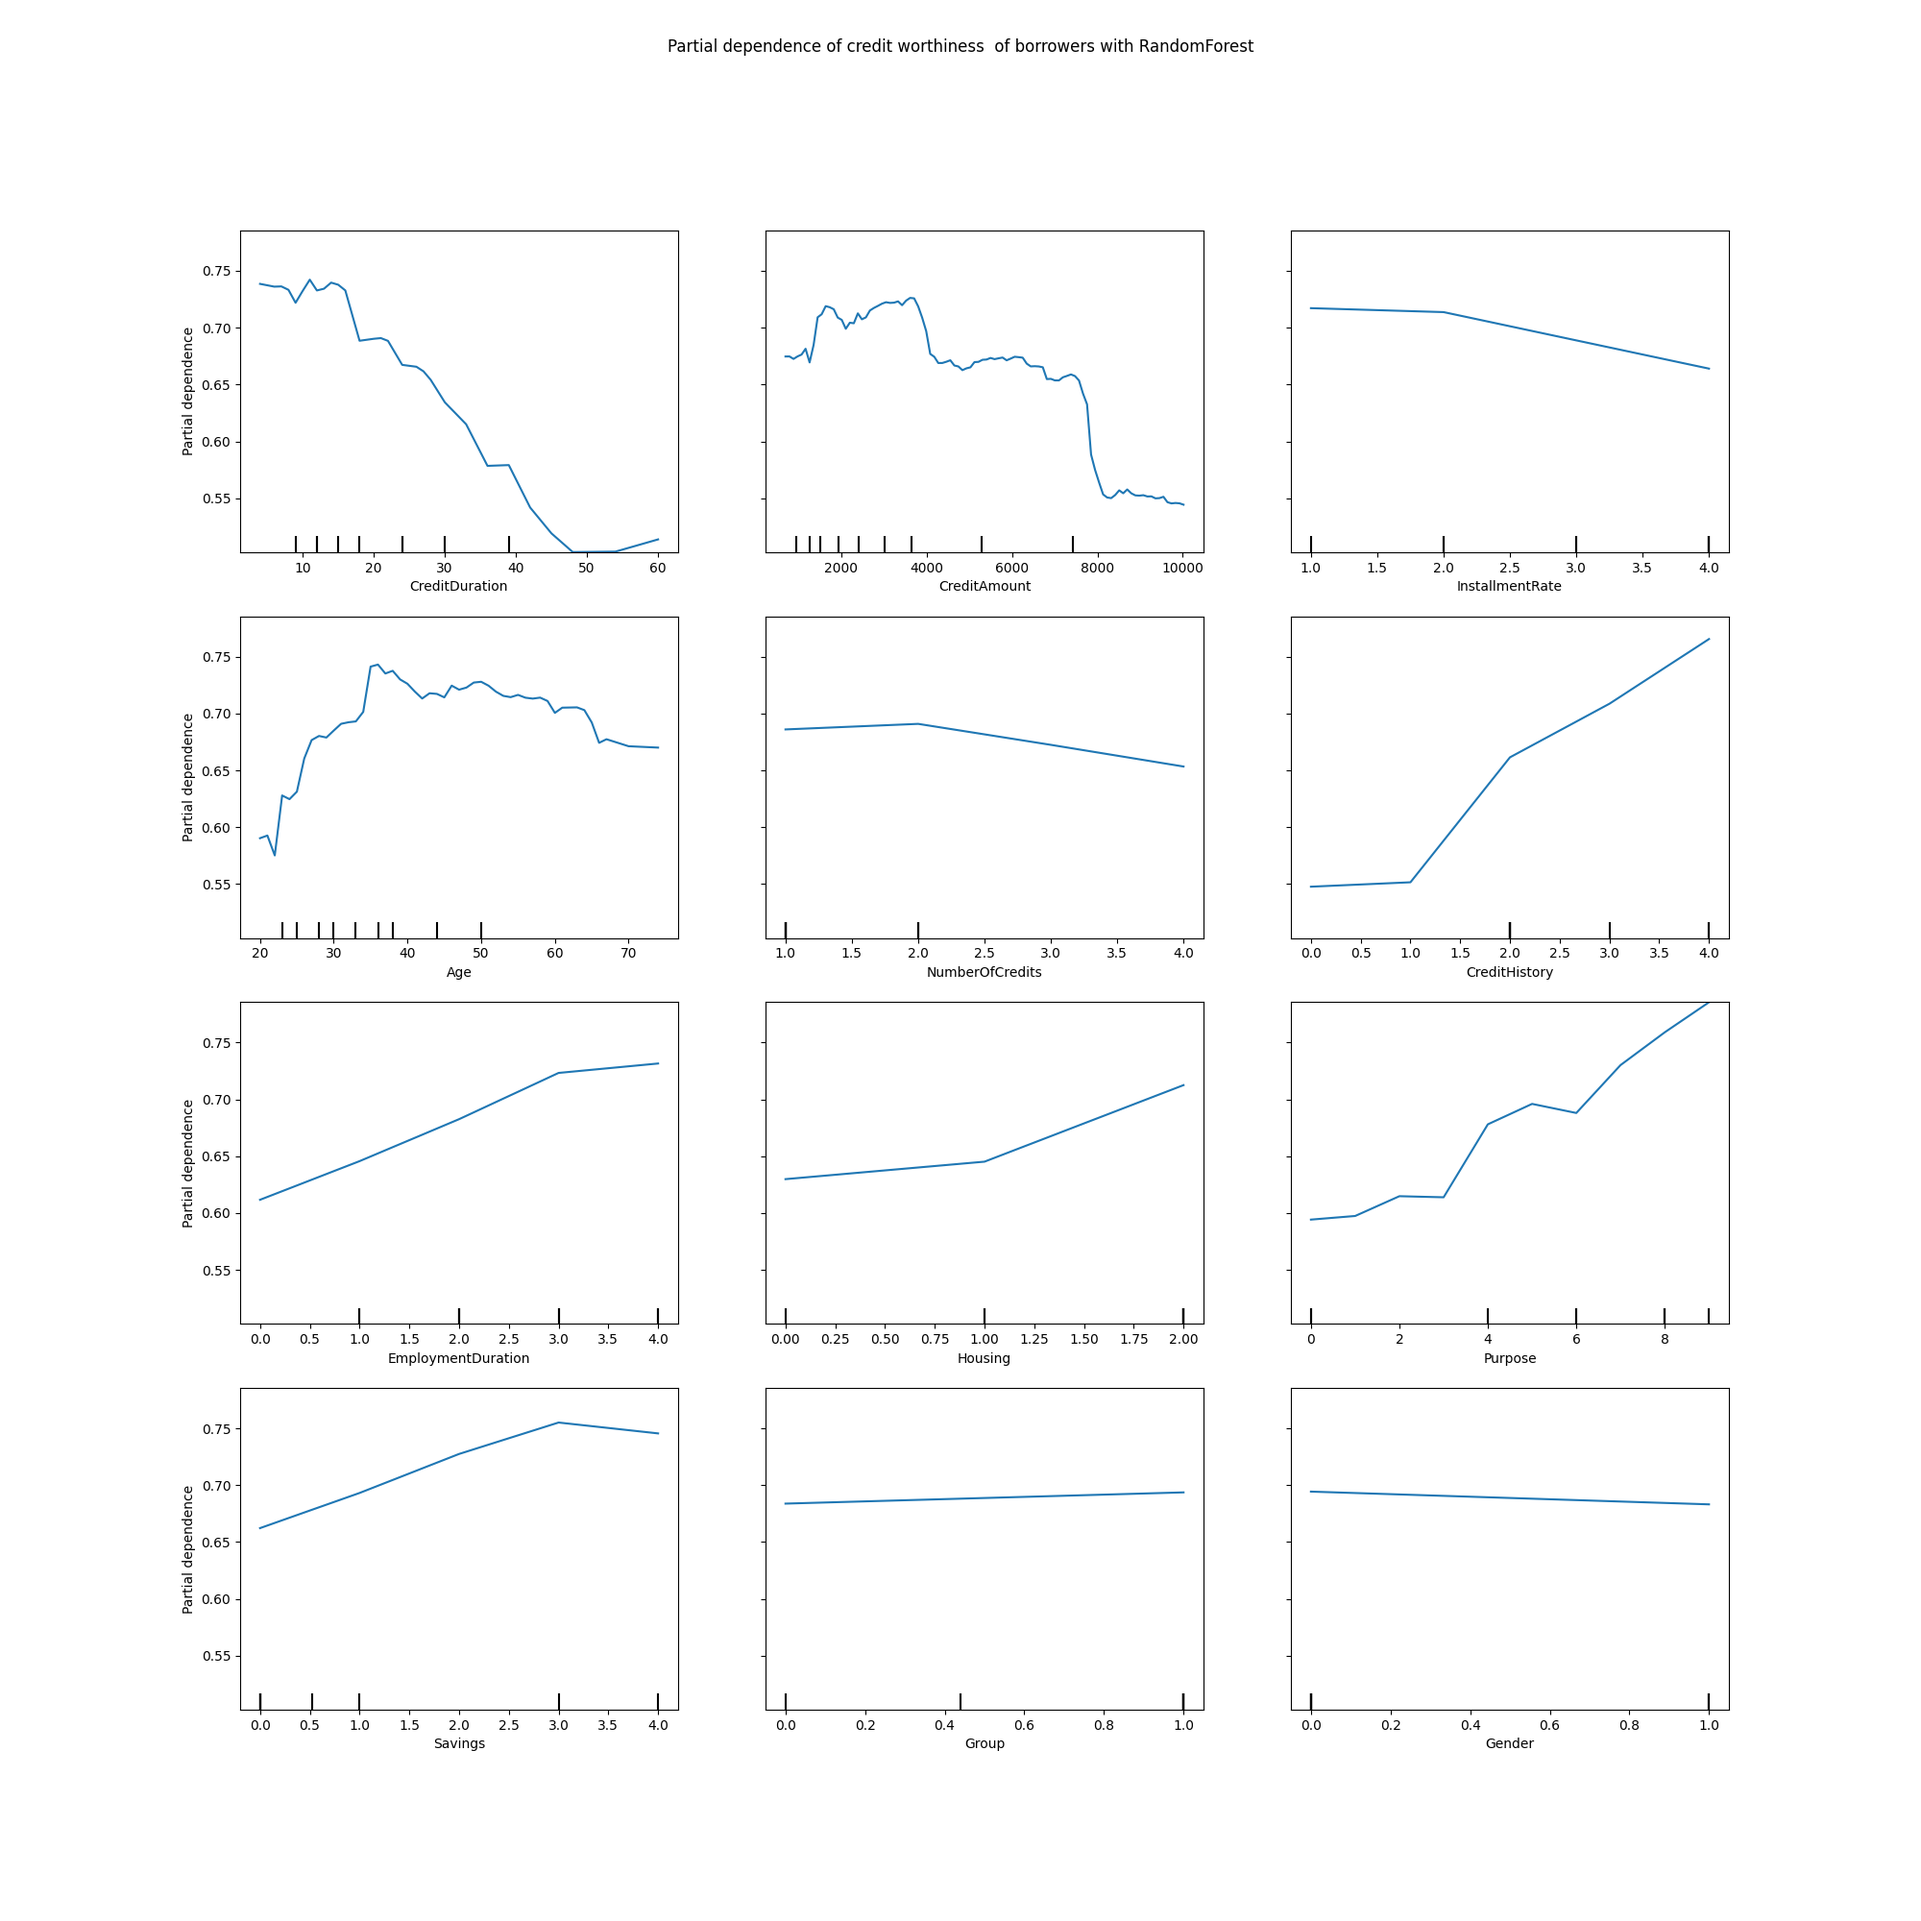
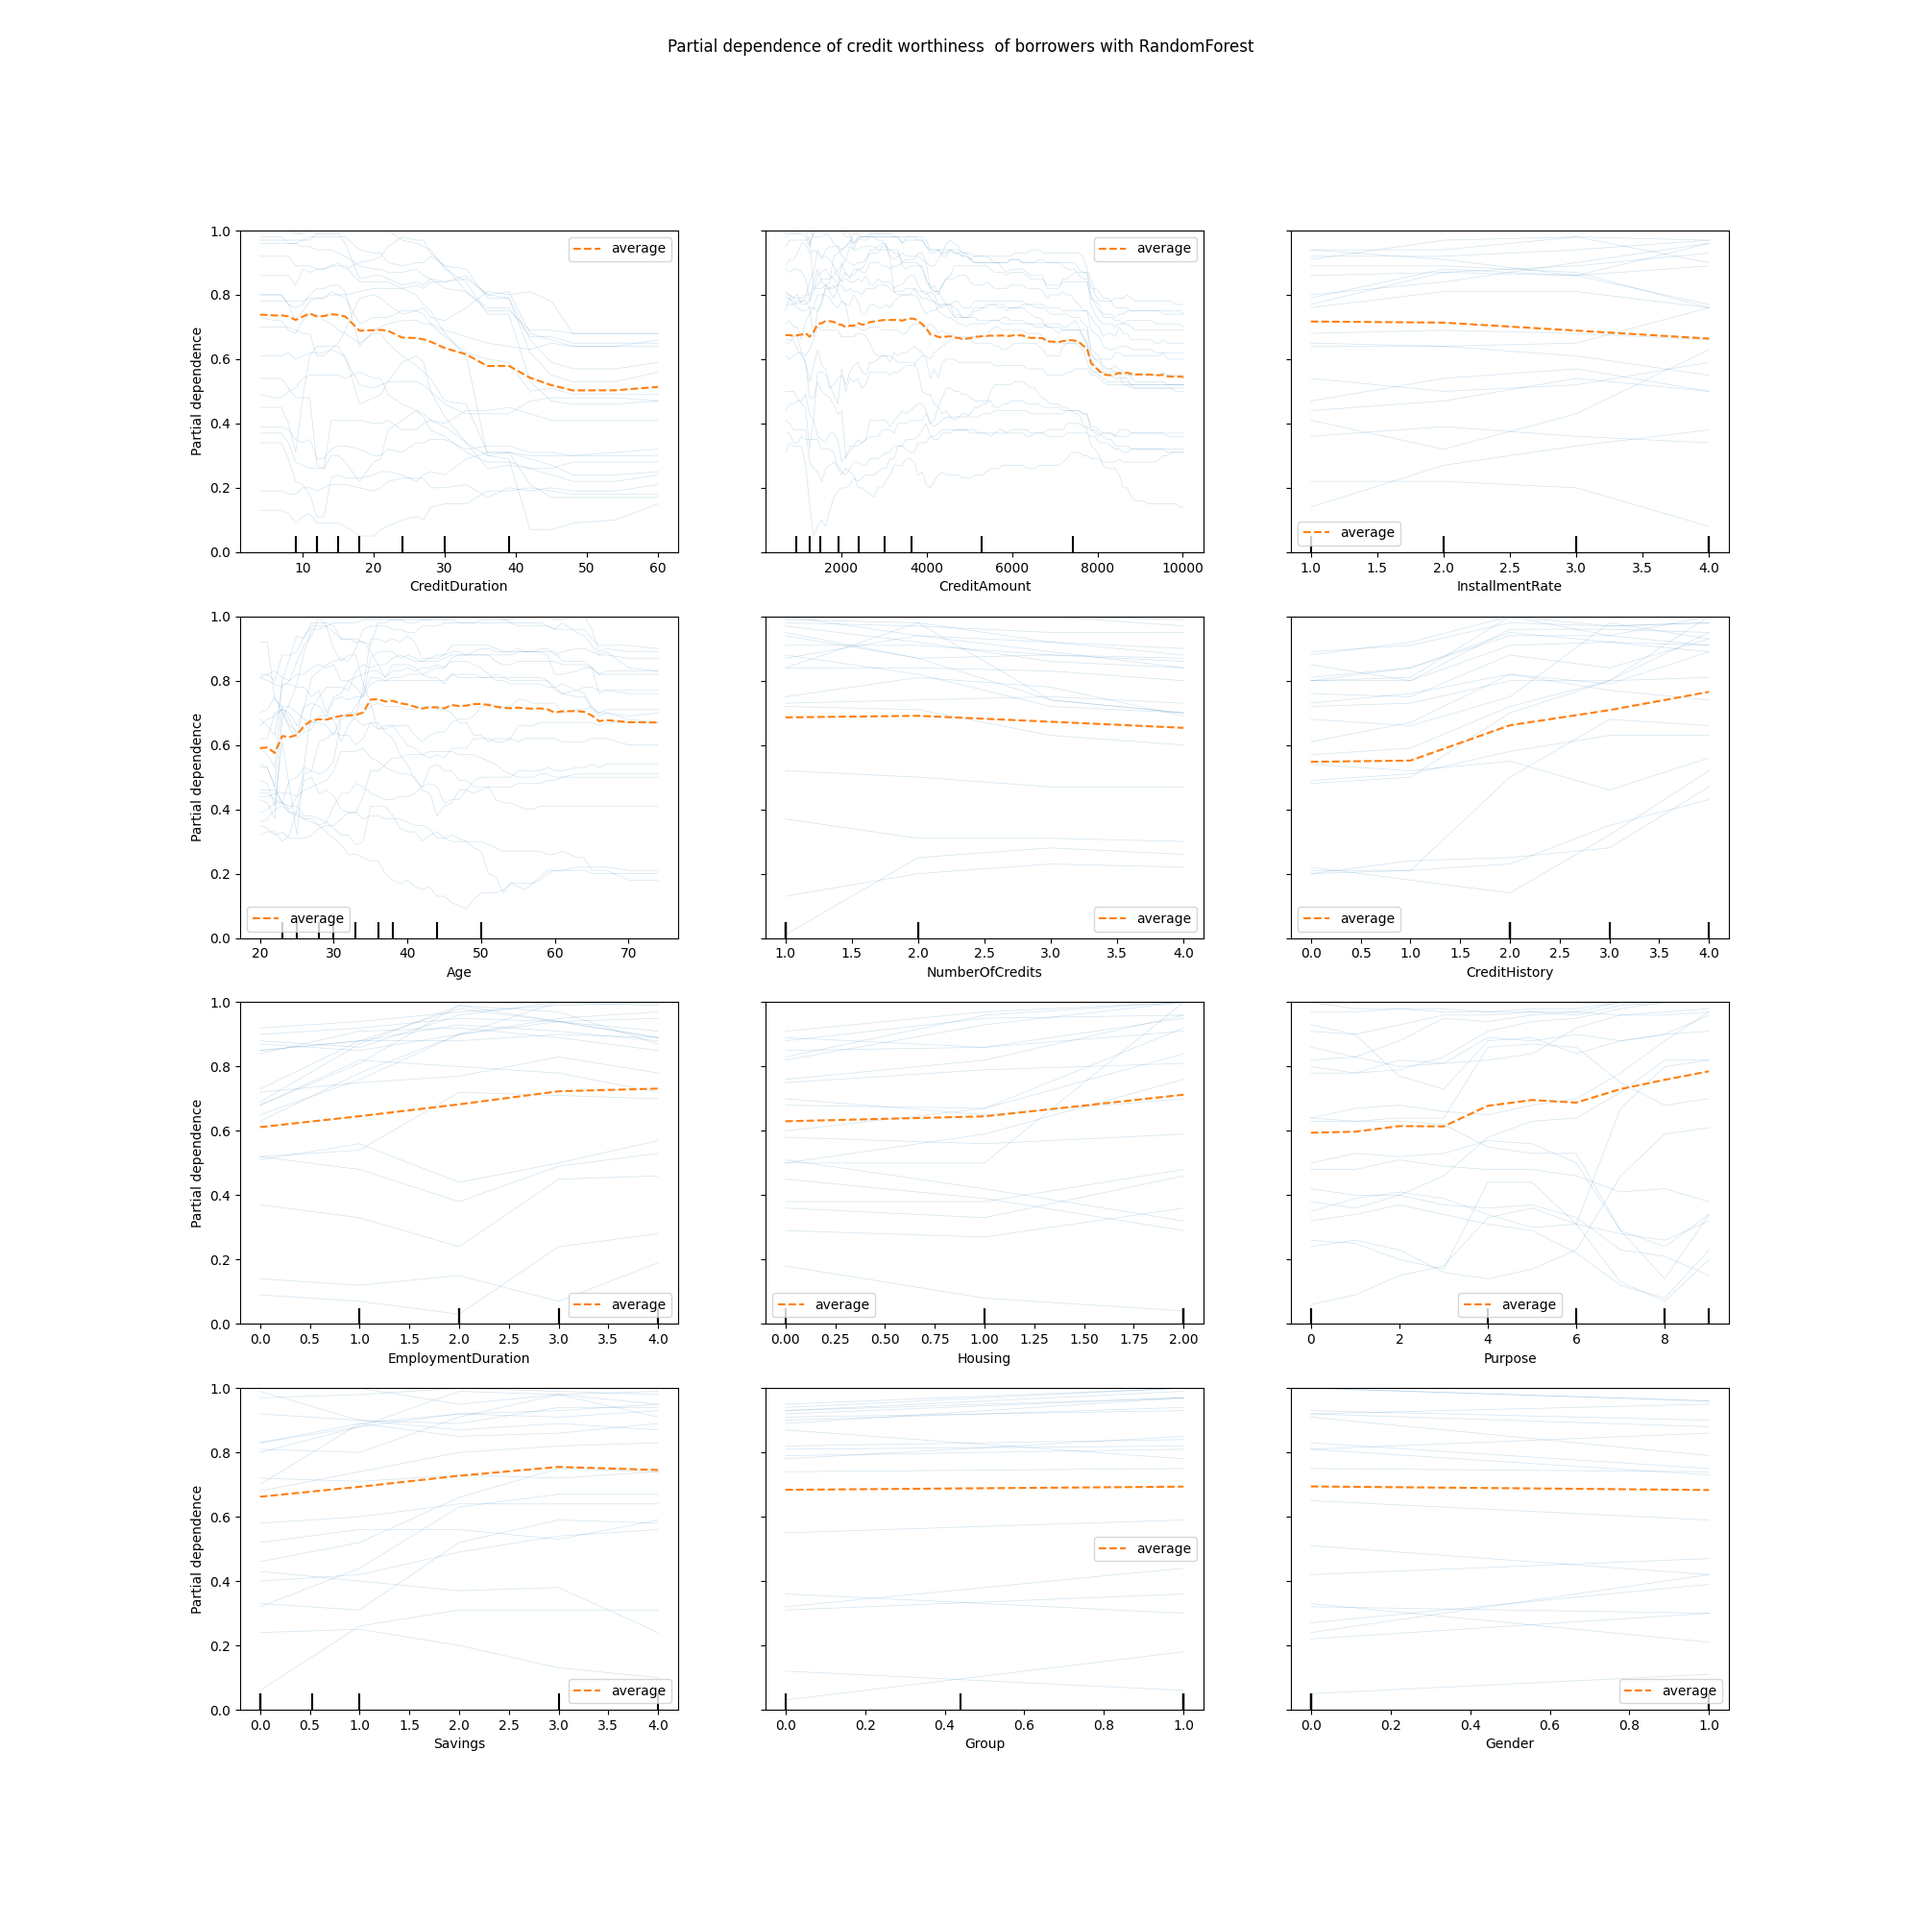
ALE done

diff --git a/src/own_model.py b/src/own_model.py
@@ -2,6 +2,7 @@ import pandas as pd
 import matplotlib.pyplot as plt
 
 from logzero import logger
+from scipy.sparse.construct import random
 from sklearn.ensemble import RandomForestClassifier
 from sklearn.preprocessing import OrdinalEncoder, StandardScaler
 from sklearn.compose import make_column_transformer
@@ -9,7 +10,8 @@ from sklearn.metrics import accuracy_score, confusion_matrix, classification_rep
 from joblib import dump
 
 from sklearn.inspection import PartialDependenceDisplay
-from alibi.explainers import ALE
+
+from PyALE import ale
 
 
 class OwnClassifierModel:
@@ -53,11 +55,45 @@ class OwnClassifierModel:
         self.model_path = self.config["data"]["own_model_path"]
         self.output_data_path = self.config["data"]["prediction_data_path"]
 
-    def step_2_and_3(self) -> None:
+    def step_2_3_5_7(self) -> None:
         self.train_model()
         self.analyze_model_perfs()
         self.make_prediction()
-        self.plot_partial_dependence()
+        # self.plot_partial_dependence()
+        self.plot_ale()
+
+    def plot_ale(self) -> None:
+        fig, ax = plt.subplots(figsize=(20, 20), nrows=3, ncols=5)
+        fig.subplots_adjust(hspace=0.5, wspace=0.001)
+        count = len(self.numerical_features) - 1
+        X_df = pd.DataFrame(
+            self.X_test_preprocessed,
+            columns=self.numerical_features + self.categorical_features,
+        )
+        logger.debug(f"\n{X_df.shape}")
+        for i, feature in enumerate(self.numerical_features):
+            result = ale(
+                X=X_df,
+                model=self.model,
+                feature=[feature],
+                feature_type="auto",
+                grid_size=50,
+                include_CI=True,
+                C=0.95,
+            )
+            plt.savefig(self.config["output"]["plot_ale"] + "_" + str(feature) + ".png")
+
+        for i, feature in enumerate(self.categorical_features):
+            result = ale(
+                X=X_df,
+                model=self.model,
+                feature=[feature],
+                feature_type="auto",
+                grid_size=50,
+                include_CI=True,
+                C=0.95,
+            )
+            plt.savefig(self.config["output"]["plot_ale"] + "_" + str(feature) + ".png")
 
     def plot_partial_dependence(self) -> None:
         plt.rcParams["figure.figsize"] = (20, 20)
@@ -76,6 +112,10 @@ class OwnClassifierModel:
             self.X_test_preprocessed,
             features_idx,
             feature_names=feature_names,
+            kind="both",
+            subsample=20,
+            ice_lines_kw={"color": "tab:blue", "alpha": 0.2, "linewidth": 0.5},
+            pd_line_kw={"color": "tab:orange", "linestyle": "--"},
         )
         display.figure_.suptitle(
             "Partial dependence of credit worthiness  of borrowers with RandomForest"
@@ -99,18 +139,12 @@ class OwnClassifierModel:
             self.X_test_preprocessed,
             features_idx,
             feature_names=feature_names,
-            kind='both',
+            kind="both",
             ice_lines_kw={"color": "tab:blue", "alpha": 0.2, "linewidth": 0.5},
-            pd_line_kw={"color": "tab:orange", "linestyle": "--"}
+            pd_line_kw={"color": "tab:orange", "linestyle": "--"},
         )
-        display.figure_.suptitle(
-            "test"
-        )
+        display.figure_.suptitle("test")
         plt.savefig(self.config["output"]["plot_ice"])
-
-
-    def plot_ale(self) -> None:
-        pass
 
     def train_model(self) -> None:
         logger.debug(f"Initializing {self.__class__.__name__}")
@@ -139,9 +173,6 @@ class OwnClassifierModel:
 
         logger.debug(f"Initializing {self.__class__.__name__}")
         y_pred = self.model.predict(self.X_test_preprocessed)
-        logger.debug(f"Prediction done")
-        print(self.y_test)
-        print(y_pred)
         acc_score = accuracy_score(
             self.y_test, y_pred
         )  # TODO: need to save it somewhere ?

diff --git a/src/surrogate.py b/src/surrogate.py
@@ -18,17 +18,20 @@ class SurrogateModel:
     def __init__(self, config):
         self.config = config
 
-        self.model_types_str = config["surrogate"]["models"]
-        self.model_kwargs_dict = config["surrogate"]["kwargs"]
+        self.models = config["surrogate"]["models"]
+        logger.debug(self.models)
+        self.model_types_str = []
         self.model_types = []
-
-        for model_type in self.model_types_str:
-            self.model_types.append(getattr(sys.modules[__name__], model_type))
-
         self.model_kwargs = []
-        for kwargs in self.model_kwargs_dict:
-            for k, v in kwargs.items():
-                self.model_kwargs.append(v)
+        self.categorical_features = self.config["data"]["categorical_features"]
+        self.numerical_features = self.config["data"]["numerical_features"]
+        for model_str, kwargs in self.models.items():
+            self.model_types_str.append(model_str)
+            self.model_types.append(getattr(sys.modules[__name__], model_str))
+            if isinstance(kwargs, dict):
+                self.model_kwargs.append(kwargs)
+            else:
+                self.model_kwargs.append({})
 
         csv_filepath = (
             self.config["data"]["prediction_data_path"]
@@ -45,6 +48,9 @@ class SurrogateModel:
 
         data = pd.read_csv(csv_filepath, sep=";")
         data = data.dropna()
+        logger.debug(config["data"]["y_true"])
+        logger.debug(config["data"]["y_pred"])
+        logger.debug(f"\n{data.columns}")
         self.X, self.y, self.y_cat = (
             data.drop([config["data"]["y_true"], config["data"]["y_pred"]], axis=1),
             data["y_hat"],
@@ -71,11 +77,20 @@ class SurrogateModel:
 
     def evaluate_DecisionTreeRegressor(self, model):
         logger.info(f"Getting evaluation for DecisionTree model")
+
+        plt.rcParams["figure.figsize"] = (20, 20)
+        plt.rcParams["figure.dpi"] = 75
+        display = tree.plot_tree(
+            model, filled=True, fontsize=8.5, feature_names=list(self.X.columns),
+        )
+        plt.savefig("data/tree_visualisation.png")
         text_representation = tree.export_text(
             model, feature_names=list(self.X.columns)
         )
+
         with open("data/tree.txt", "w") as text_file:
             text_file.write(text_representation)
+
         logger.debug(f"\n{text_representation}")
 
     def evaluate_DecisionTreeClassifier(self, model):
